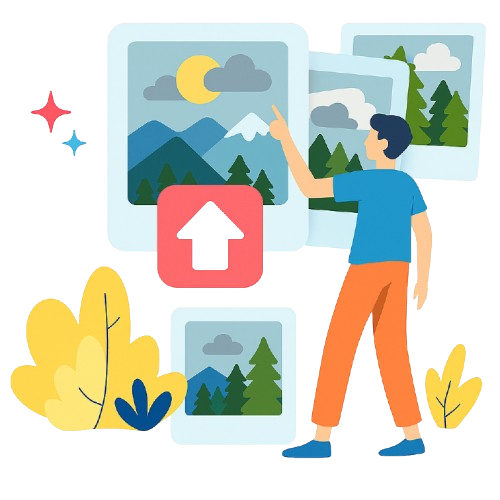
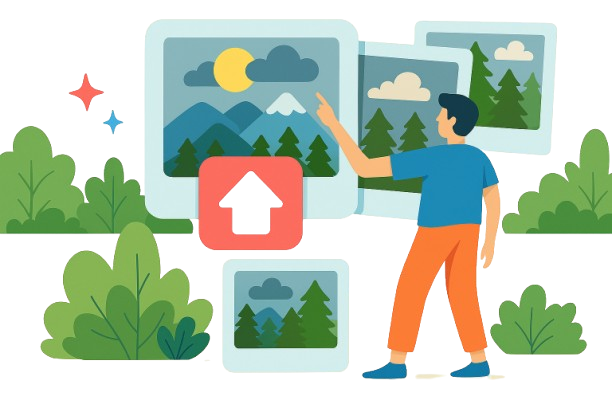
updated images

diff --git a/lib/widgets/project_details/project_details_sidebar.dart b/lib/widgets/project_details/project_details_sidebar.dart
@@ -1,6 +1,5 @@
 import 'dart:io';
 import 'package:flutter/material.dart';
-import 'package:flutter_svg/flutter_svg.dart';
 
 import '../../../utils/date_utils.dart';
 import '../../models/project.dart';
@@ -47,7 +46,6 @@ class _ProjectDetailsSidebarState extends State<ProjectDetailsSidebar> {
 
   @override
   Widget build(BuildContext context) {
-    bool isSvg = widget.project.icon.toLowerCase().endsWith('.svg');
     return Container(
       padding: const EdgeInsets.all(25.0),
       color: Colors.grey[850],
@@ -100,25 +98,15 @@ class _ProjectDetailsSidebarState extends State<ProjectDetailsSidebar> {
           ),
 
           const SizedBox(height: 15),
-          // Project Icon
-          isSvg
-              ? SvgPicture.asset(
-                widget.project.icon,
-                height: 140,
-                fit: BoxFit.cover,
-                // color: Colors.white,
-                colorFilter: const ColorFilter.mode(Colors.white, BlendMode.srcIn),
-              )
-              : Image.file(
-                  File(widget.project.icon),
-                  height: 140,
-                  fit: BoxFit.cover,
-                  width: double.infinity,
-                  errorBuilder: (context, error, stackTrace) {
-                    return const Icon(Icons.broken_image, size: 80, color: Colors.white54);
-                  },
-                ),
-
+          Image.file(
+            File(widget.project.icon),
+            height: 140,
+            fit: BoxFit.cover,
+            width: double.infinity,
+            errorBuilder: (context, error, stackTrace) {
+              return const Icon(Icons.broken_image, size: 80, color: Colors.white54);
+            },
+          ),
           const SizedBox(height: 15),
           Text(
             "Type: ${widget.project.type}", // Project Type
